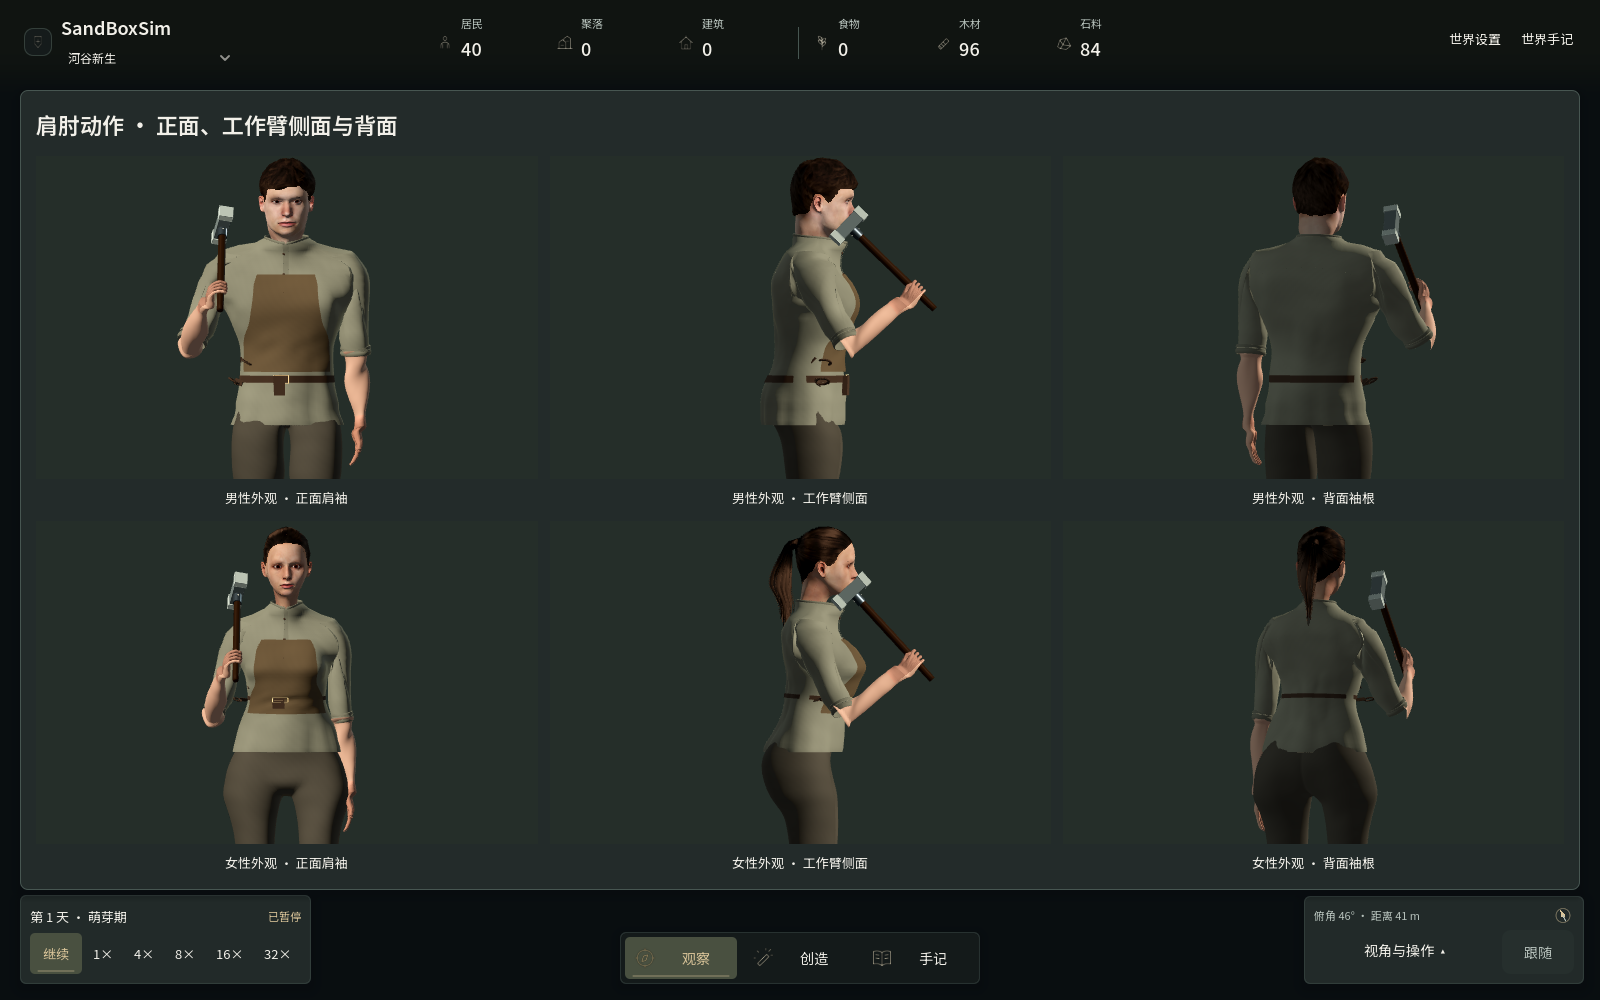
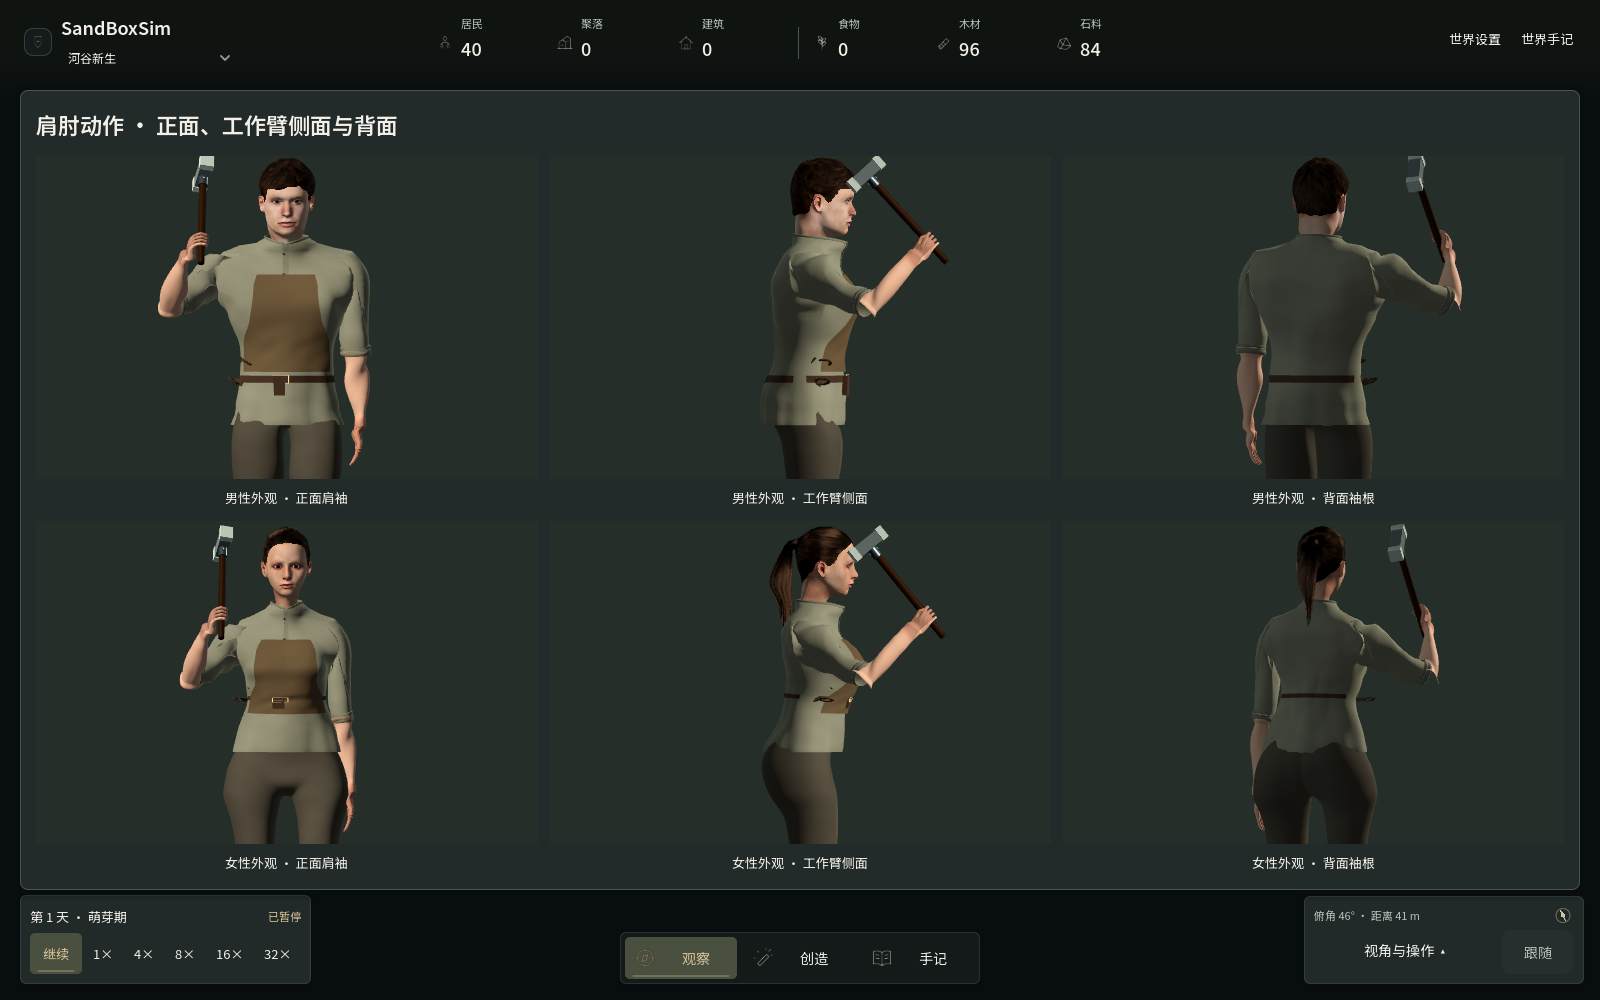
Stabilize forearm frames and refine raised-arm work motion

diff --git a/src/SandBoxSim.Godot/WorldView3D.cs b/src/SandBoxSim.Godot/WorldView3D.cs
@@ -449,7 +449,7 @@ public partial class WorldView3D : MapView
             ["shadowDistance"]=_sunlight.DirectionalShadowMaxDistance,["shadowBias"]=_sunlight.ShadowBias,
             ["shadowNormalBias"]=_sunlight.ShadowNormalBias,["msaa"]=_viewport.Msaa3D.ToString(),
             ["landscapeSurface"]="coverage-mosaic-v6",["habitatDetail"]="stratified-meadow-v10",["vegetationSurface"]="engine-faced-v2",
-            ["architecture"]="inset-joinery-v13",["garmentMaterial"]="faired-panel-linen-v15",["shoulderSkin"]="bound-surface-sleeve-v7",["shoulderMotion"]="captured-arm-motion-v8",["motionReference"]="cmu-143-30-v1",["shoulderSurface"]="bound-anatomical-surface-v2",["forearmSkin"]="distributed-roll-v1",["reachMotion"]="palm-trajectory-v2",["interface"]="resident-framing-memory-v28",["wildFlora"]="arched-bramble-v1",["fontProfile"]="noto-packaged-v1",["interfaceVisible"]=Game.InterfaceVisible,
+            ["architecture"]="inset-joinery-v13",["garmentMaterial"]="faired-panel-linen-v15",["shoulderSkin"]="bound-surface-sleeve-v7",["shoulderMotion"]="captured-arm-motion-v8",["motionReference"]="cmu-143-30-v1",["shoulderSurface"]="bound-anatomical-surface-v2",["forearmSkin"]="distributed-roll-v1",["sleeveFairing"]="convex-cap-v1",["workPose"]="raised-hammer-v1",["reachMotion"]="palm-trajectory-v2",["interface"]="resident-framing-memory-v28",["wildFlora"]="arched-bramble-v1",["fontProfile"]="noto-packaged-v1",["interfaceVisible"]=Game.InterfaceVisible,
             ["animalPresentation"]="articulated-paws-v12",["residentSurface"]="linear-skin-v9",["workEffort"]="phase-warp-v2",["toolMotion"]="contact-transfer-v3",["bodySupport"]="planted-sagittal-v1",["facialTiming"]="phrase-blink-v1",["handSurface"]="anatomical-regions-v1",["handlingMotion"]="wholebody-motion-v7",["toolGeometry"]="forged-heads-v2",["cargoGeometry"]="bound-timber-v2",["equipmentAttachment"]="surface-holster-v2",["socialMotion"]="prepared-gesture-v5",["waterSurface"]="constrained-bank-v6",["wristContour"]="source-oval-v1",
             ["hairline"]="source-root-v1",["reedPanicle"]="connected-axis-v1",["bodyFrame"]="adult-proportions-v15",["faceContour"]="regional-adult-v2",["forearmProfile"]="tapered-volume-v1",["residentLocomotion"]="settled-arrival-v3",["armSwing"]="relaxed-countermotion-v2",["limbCoordination"]="hinge-carry-v4" };
         if(galleries is {Length:>0})quality["galleries"]=galleries;

diff --git a/src/SandBoxSim.Godot/ResidentRig.HandPose.cs b/src/SandBoxSim.Godot/ResidentRig.HandPose.cs
@@ -148,8 +148,12 @@ internal partial class ResidentRig
         // The hammer head points back toward the character at the apex.
         // Keep its hand path in front of the chest instead of drawing the
         // head inward toward the cheek while lifting it.
-        float depth=-.30f+lift*(kind==ResidentTool.Hammer?-.06f:.10f)+arc*.028f;
-        return (new((kind==ResidentTool.Hammer?.20f:.10f)+arc*.025f,.92f+lift*.26f,depth),rotation);
+        float depth=-.30f+lift*(kind==ResidentTool.Hammer?-.10f:.10f)+arc*.028f;
+        // A hammer preparation raises the whole arm into a working arc.
+        // Keeping the wrist below shoulder height throughout instead made
+        // this a forearm-only motion, with the head passing by the cheek.
+        float height=.92f+lift*(kind==ResidentTool.Hammer?.46f:.26f);
+        return (new((kind==ResidentTool.Hammer?.26f:.10f)+arc*.025f,height,depth),rotation);
     }
     // Zero velocity and acceleration at both ends of an intentional reach.
     internal static float ReachEase(float t){t=Math.Clamp(t,0,1);return t*t*t*(10+t*(-15+6*t));}
@@ -292,6 +296,18 @@ internal partial class ResidentRig
         }
         var upperBasis=ReachUpperArmFrame(side,elbow-shoulder,wrist-elbow);
         var lowerBasis=LimbFrame((wrist-elbow).Normalized(),handBasis.X)*new Basis(new Quaternion(Hands[side].Position.Normalized(),Vector3.Down));
+        if(_poseStep>0)
+        {
+            // A palm axis projected onto the forearm's transverse plane is
+            // ill-conditioned when that axis approaches the forearm axis.
+            // Transport the displayed frame instead; constrain pronation,
+            // while the wrist still reaches the exact requested hand frame.
+            var prior=_priorArms[side].Basis*_priorForearms[side].Basis;
+            var lowerDirection=(wrist-elbow).Normalized();
+            var transported=new Basis(new Quaternion(prior*Hands[side].Position.Normalized(),lowerDirection))*prior;
+            float turn=transported.X.SignedAngleTo(lowerBasis.X,lowerDirection);
+            lowerBasis=new Basis(lowerDirection,Math.Clamp(turn,-6*_poseStep,6*_poseStep))*transported;
+        }
         Arms[side].Basis=upperBasis;Elbows[side].Basis=upperBasis.Inverse()*lowerBasis;Hands[side].Basis=lowerBasis.Inverse()*handBasis;
     }
     internal const float SleeveRollSampleLimit=1.65f;

diff --git a/src/SandBoxSim.Godot/NatureModels.SleeveCorrectives.cs b/src/SandBoxSim.Godot/NatureModels.SleeveCorrectives.cs
@@ -98,16 +98,18 @@ internal sealed partial class NatureModels
             // Fair the entire shoulder/armhole transition, not an isolated
             // sleeve with a pinned ridge at its root. Metric surface patches
             // and area weights avoid dependence on the tiny cap-ring edges.
-            // The neckline, waist and cuff stay fixed; the shared seam moves
-            // as one surface. Keep the existing four-millimetre edit bound.
-            for(int iteration=0;iteration<4;iteration++)
+            // Remove convex cap ridges along the surface normal without
+            // filling the axillary hollow or sliding the seam tangentially.
+            // This is a garment silhouette edit, separate from body fitting.
+            for(int iteration=0;iteration<6;iteration++)
             {
-                var next=(Vector3[])target.Clone();float amount=iteration%2==0?.45f:-.40f;
+                var next=(Vector3[])target.Clone();var surfaceNormals=ClothSurfaceNormals(target,ids);
                 for(int i=0;i<target.Length;i++)if(active[i]>0)
                 {
                     var average=Vector3.Zero;foreach(var (index,weight) in patches[i])average+=target[index]*weight;
-                    var offset=(target[i]+(average-target[i])*amount*active[i])-anatomicalTarget[i];
-                    if(offset.Length()>.004f)offset=offset.Normalized()*.004f;
+                    var normal=surfaceNormals[i];float ridge=MathF.Min(0,(average-target[i]).Dot(normal));
+                    var offset=target[i]+normal*(ridge*.45f*active[i])-anatomicalTarget[i];
+                    if(offset.Length()>.012f)offset=offset.Normalized()*.012f;
                     next[i]=anatomicalTarget[i]+offset;
                 }
                 target=next;
@@ -183,7 +185,7 @@ internal sealed partial class NatureModels
             float value=(points[b]-points[a]).Cross(points[c]-points[a]).Length()/6;
             area[a]+=value;area[b]+=value;area[c]+=value;
         }
-        const float radius=.025f;
+        const float radius=.04f;
         var result=new (int,float)[points.Length][];
         for(int i=0;i<points.Length;i++)
         {

diff --git a/src/SandBoxSim.Godot/ResidentRig.MotionFilter.cs b/src/SandBoxSim.Godot/ResidentRig.MotionFilter.cs
@@ -32,7 +32,15 @@ internal partial class ResidentRig
             _toolVelocity=_toolAngularVelocity=Vector3.Zero;_toolFilterReady=true;
         }
         DampMotion(ref _toolPosition,ref _toolVelocity,target,.040f,_poseStep);
-        _toolRotation=DampRotation(_toolRotation,ref _toolAngularVelocity,basis.GetRotationQuaternion(),.040f,_poseStep);
+        var previous=_toolRotation;
+        _toolRotation=DampRotation(previous,ref _toolAngularVelocity,basis.GetRotationQuaternion(),_returning?.020f:.060f,_poseStep);
+        float angle=2*MathF.Acos(Math.Clamp(MathF.Abs(previous.Dot(_toolRotation)),0,1));
+        float maximum=(_returning?6:4)*_poseStep;
+        if(angle>maximum&&angle>0)
+        {
+            float ratio=maximum/angle;
+            _toolRotation=previous.Slerp(_toolRotation,ratio);_toolAngularVelocity*=ratio;
+        }
         return (_toolPosition,new Basis(_toolRotation));
     }
 }

diff --git a/src/SandBoxSim.Godot/NatureModels.HandlingValidation.cs b/src/SandBoxSim.Godot/NatureModels.HandlingValidation.cs
@@ -331,7 +331,7 @@ internal sealed partial class NatureModels
                 }
             }
             if(!blinked||transfers!=2||travel<.03f||rig.ToolHeld||rig.CurrentTool!=rig.DefaultTool)
-                throw new InvalidOperationException("Incomplete take/use/stow cycle: "+action);
+                throw new InvalidOperationException($"Incomplete take/use/stow cycle: {action}, transfers={transfers}, travel={travel:F4}, blinked={blinked}, held={rig.ToolHeld}, tool={rig.CurrentTool}/{rig.DefaultTool}");
             // A different work action must replace the tool after stowing, rather than deadlocking the draw state.
             foreach(var next in new[]{ActionKind.GatherWood,ActionKind.GatherIron,ActionKind.Farm})
             {

diff --git a/src/SandBoxSim.Godot/NatureModels.ShoulderMotionValidation.cs b/src/SandBoxSim.Godot/NatureModels.ShoulderMotionValidation.cs
@@ -6,7 +6,7 @@ namespace SandBoxSim.Client;
 
 internal sealed partial class NatureModels
 {
-    public void ValidateResidentMotion(){ValidateShoulderMotion();ValidateGarmentMotion();ValidateReachTrajectories();}
+    public void ValidateResidentMotion(){ValidateShoulderMotion();ValidateGarmentMotion();ValidateReachTrajectories();ValidateHandling();}
     // Check the displayed upper-arm frame as well as hand positions. A reach
     // can satisfy every endpoint test while rolling the sleeve through 180掳.
     private void ValidateShoulderMotion()

diff --git a/docs/development/models.md b/docs/development/models.md
@@ -196,7 +196,7 @@
 
 `adult-proportions-v15` 增加来源人体的上臂体积支撑：从已校验的 MakeHuman HM08 男女青年宏目标中，按各自肩—肘轴采样 25×64 个截面半径，保留三角肌区域到肘部的渐变和非圆形截面。成衣留出 7 毫米松量，以距袖窿的网格距离逐渐进入支撑，单点径向修整不超过 12 毫米，袖口保持原有尺寸。该数据提供衣料包络支撑。成衣保留原有缝线拓扑与袖口连接；新增姿态修整另约束位移在短边上的变化，防止小幅修整拉开压缩袖山；来源与重建工具见[人物素材](human-assets.md)。
 
-衣身包含七十二个归一化姿态修正：左右臂、后斜 45°／侧向／前斜 45°／前向四个平面，45°／90°／135° 三个高度，以及内旋／中性／外旋三种采样。扭转样本偏移 ±0.60 弧度，采样朝向限于 ±1.65 弧度；这些描述缓存范围，不是人体关节限制。每个衣料顶点先在静止人体表面绑定三角面、重心坐标及 6–18 毫米衣料偏移，此对应关系随各姿态运输，不在抬臂后重新寻找最近身体部位。结构贴合在姿态空间限于 10 厘米，随后作最多 4 毫米的局部修整；绑定空间位移保护上限为 8 厘米。64 轮约束同时处理位移梯度与实际蒙皮边长，烘焙目标边长限于静止边长三倍，为姿态间插值留出余量；最终活动范围仍保留原有的 4.5 倍回归上限。颈口、中线、腰部和袖口固定，法线按最终表面重建并反算回蒙皮前坐标。运行帧仅驱动骨骼和形态权重，GPU 负责形态混合及线性蒙皮；不同衣色共享对应体型／剪裁的缓存，LOD 保留形态及混合模式。
+衣身包含七十二个归一化姿态修正：左右臂、后斜 45°／侧向／前斜 45°／前向四个平面，45°／90°／135° 三个高度，以及内旋／中性／外旋三种采样。扭转样本偏移 ±0.60 弧度，采样朝向限于 ±1.65 弧度；这些描述缓存范围，不是人体关节限制。每个衣料顶点先在静止人体表面绑定三角面、重心坐标及 6–18 毫米衣料偏移，此对应关系随各姿态运输，不在抬臂后重新寻找最近身体部位。结构贴合在姿态空间限于 10 厘米，随后在 4 厘米的网格路径补片内作六轮凸脊修整，沿表面法线收回凸起、保留腋下凹面，修整上限 12 毫米；绑定空间位移保护上限为 8 厘米。64 轮约束同时处理位移梯度与实际蒙皮边长，烘焙目标边长限于静止边长三倍，为姿态间插值留出余量；最终活动范围仍保留原有的 4.5 倍回归上限。颈口、中线、腰部和袖口固定，法线按最终表面重建并反算回蒙皮前坐标。运行帧仅驱动骨骼和形态权重，GPU 负责形态混合及线性蒙皮；不同衣色共享对应体型／剪裁的缓存，LOD 保留形态及混合模式。
 
 `SLEEVE_CORRECTIVES_PASS` 检查两种成人外观与三种剪裁的形态数据、归一化引擎烘焙、两臂同时修正、共享缝线及固定颈口／中线／腰部／袖口、暂停和近远景恢复。`PROTRUDING_CAP_PASS` 单独统计距绑定人体参考点超过 4 厘米的顶点，比较完整表面距离，避免平均法向残差掩盖局部偏移；姿态烘焙还约束实际蒙皮后的短边。法线检查以实际形态混合及蒙皮后的三角面为参考，比较静止法线方案和姿态法线方案；它衡量表面朝向的一致性，不是写实品质评分。`SLEEVE_SWING_TWIST_PASS` 检查独立摆动方向、纯扭转时肩根稳定、端点、四元数符号及旋转区间截面。`ELBOW_PLANE_METRICS` 在实际动作及收回全过程检查前臂相对屈肘平面的偏离；`SIGNED_ELBOW_FRAME_PASS` 另检查稳定抬臂时的有符号屈曲轴，避免只因放宽滚转角度就通过检查。收手仍保留进入速度和阻尼，同时约束实际显示的肩、肘、腕角速度，防止从较大手势返回时突然甩动。
 
@@ -658,3 +658,7 @@ $blender = '.tools/blender-4.5.14/editor/blender-4.5.14-windows-x64/blender.exe'
 普通世界重建自然物时复用已接受／拒绝的草丛贴地候选，避免为未变化的地块反复检查整圈根部。踩踏字节变化会使邻近地块的支撑缓存失效，重建地形清空缓存；草丛密度、实际根部间距及坡度判定沿用原规则。角色状态和模拟随机流不受此表现缓存影响。
 
 [文档导航](../README.md) · [项目首页](../../README.md)
+
+`workPose=raised-hammer-v1` 的锤击准备由手掌高度 0.92–1.38 米和向前的工作平面共同驱动，使用当前肩肘腕求解器带动上臂；工具旋转保留阻尼速度，作业转速上限为每秒 4 弧度，收纳阶段为每秒 6 弧度并使用更短阻尼时间，以保留及时的手柄归位。该轨迹是游戏表现参数，不是动作捕捉或锤击力学。设计参考 [Autodesk 的肘部参考角与 IK 设置](https://www.autodesk.com/learn/ondemand/tutorial/setting-the-preferred-angle)，以及 [Epic 的惯性过渡说明](https://dev.epicgames.com/documentation/en-us/unreal-engine/animation-blueprint-blend-nodes-in-unreal-engine)中保留运动趋势的原则；项目使用自己的滤波与解析求解。`sleeveFairing=convex-cap-v1` 标记凸脊轮廓修整，原有颈口、胸侧与袖口约束保留。
+
+前臂坐标系沿上一帧的前臂方向运输，再以每秒最多 6 弧度追随手掌参考轴的轴向转动，避免参考轴接近平行时的投影奇点。腕部补偿保持原来的手掌朝向和握柄接触，前臂轴向转动使用独立的连续性约束。ResidentMotionOnly 同时覆盖完整拿取／使用／收纳与切换工具检查，保留原有归位时限和连续性阈值。

diff --git a/docs/development/benchmark.md b/docs/development/benchmark.md
@@ -216,3 +216,5 @@ Godot 自检包含协议拒绝测试、模型/握持几何和 UI 状态；Python
 `renderQuality.forearmSkin=distributed-roll-v1` 标记每手 21 骨的分段旋转表面，`shoulderSurface=bound-anatomical-surface-v2` 标记固定三角面对应与缓存中的双四元数人体支撑。二者改变了缓存生成和近景骨骼开销，须冻结同一版本再比较效率；动作端点、边长和表面距离只用于几何回归，不能作为写实度或 RSI 能力分数。
 
 人体支撑 v2 的贴合残差以固定三角面对应和衣片参与规则为参考，与 v1 的逐姿态最近面查询不同；两者不能直接作为同一质量指标比较。完整 sourceFiles、骨骼／网格版本、构图和照明须一并冻结。
+
+`workPose=raised-hammer-v1` 与 `sleeveFairing=convex-cap-v1` 分别标记较高的锤击准备路径、工具角速度约束、前臂参考系运输及肩袖凸脊修整。`visual-shoulder-motion.json` 使用当前实现；这会改变视觉和缓存开销，效率比较应冻结这些标签、源文件和相同场景配置。

diff --git a/docs/images/README.md b/docs/images/README.md
@@ -110,3 +110,5 @@
 旧程序动物的毛束和眨眼说明不适用于当前授权动物。
 
 木材捆独立近景保留搬运功能版本的采样；腰侧工具挂环的当前位置以新版配件图和人物观察窗为准。
+
+作业肩袖的 PNG／GIF 于 2026-10-31 更新，仍采用上述构图与逻辑帧范围，新增 `workPose=raised-hammer-v1` 与 `sleeveFairing=convex-cap-v1`；其他专题保留 2026-10-30 的采样版本。锤击准备包含更高的手掌路径、工具角速度限制及前臂参考系运输，肩袖采用只收回凸脊的法向修整。
